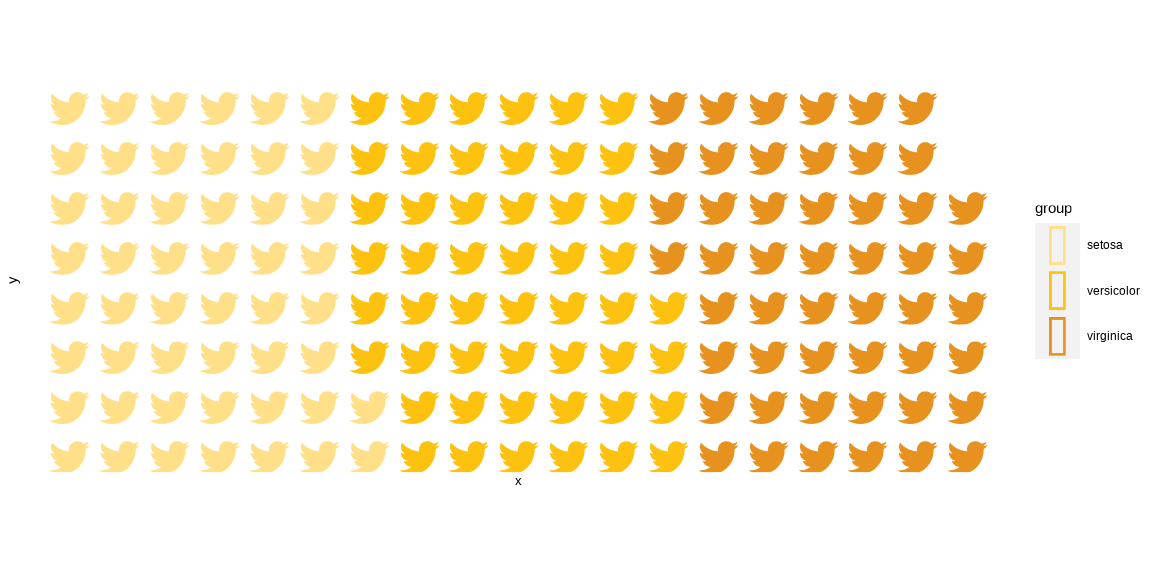
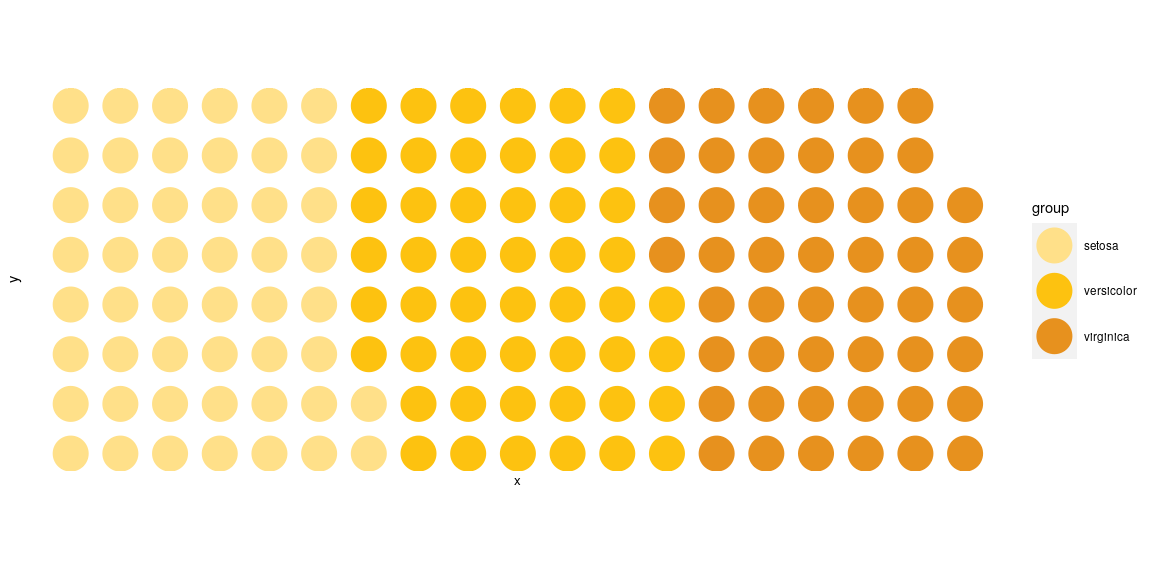
More changes for v0.2.5

Changed region(s): [[0.0312, 0.1562, 1.0, 0.8438]]

diff --git a/README.md b/README.md
@@ -71,7 +71,6 @@ Using `coord_equal` is recommended to make the size of the blocks even
 in all dimensions.
 
 ``` r
-iris$Species <- as.character(iris$Species)
 waffle_data <- waffle_iron(iris, aes_d(group = Species))
 
 ggplot(waffle_data, aes(x, y, fill = group)) + 
@@ -82,6 +81,21 @@ ggplot(waffle_data, aes(x, y, fill = group)) +
 ```
 
 ![](man/figures/README-unnamed-chunk-3-1.png)<!-- -->
+
+The shape of the waffle tile can also be controlled, choosing from
+either a regular square, or a circle tile shape.
+
+``` r
+waffle_data <- waffle_iron(iris, aes_d(group = Species))
+
+ggplot(waffle_data, aes(x, y, colour = group)) + 
+  geom_waffle(tile_shape = 'circle', size = 12) + 
+  coord_equal() + 
+  scale_colour_waffle() + 
+  theme_waffle()
+```
+
+![](man/figures/README-unnamed-chunk-4-1.png)<!-- -->
 
 # Icons
 
@@ -103,4 +117,4 @@ ggplot(waffle_data, aes(x, y, colour = group)) +
   theme_waffle()  
 ```
 
-![](man/figures/README-unnamed-chunk-4-1.png)<!-- -->
+![](man/figures/README-unnamed-chunk-5-1.png)<!-- -->

diff --git a/NEWS.md b/NEWS.md
@@ -5,6 +5,8 @@
 * Replacing README with markdown generated from .Rmd
 * Fixing issue with factor variables in `waffle_iron`
 * Adding `aes_d_` function to enable more streamlined plot creation
+* Adding `tile_shape` parameter
+* Adding github actions for pkgdown
 
 # ggwaffle 0.2.3
 
